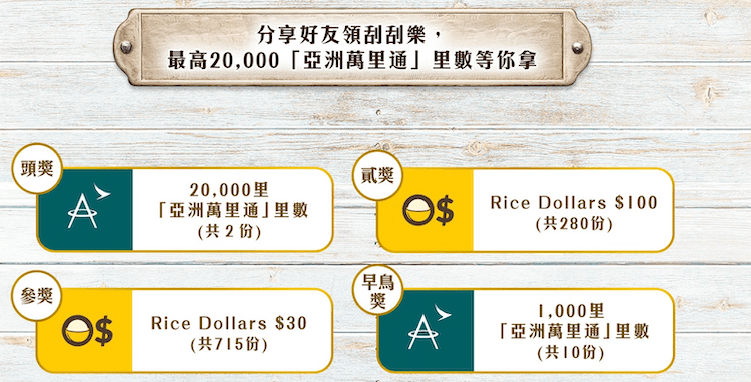
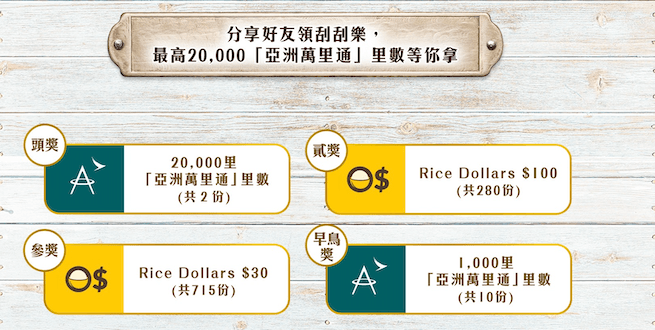
assets(liff): 更新獎項圖並滿版置中、移除框內留白
Made-with: Cursor

diff --git a/public/style.css b/public/style.css
@@ -1045,22 +1045,22 @@ h1 {
   display: flex;
   justify-content: center;
   align-items: center;
-  padding: 10px 12px;
+  padding: 0;
   border: 1px solid #dcc58c;
   border-radius: 12px;
   overflow: hidden;
-  background: #fff;
+  background: #e8e4dc;
+  line-height: 0;
 }
 
 .liff-prize-section-image {
-  width: auto;
+  width: 100%;
   max-width: 100%;
   height: auto;
   display: block;
   margin: 0 auto;
   object-fit: contain;
   object-position: center center;
-  transform: translateX(10px);
 }
 
 .scratch-zone {
